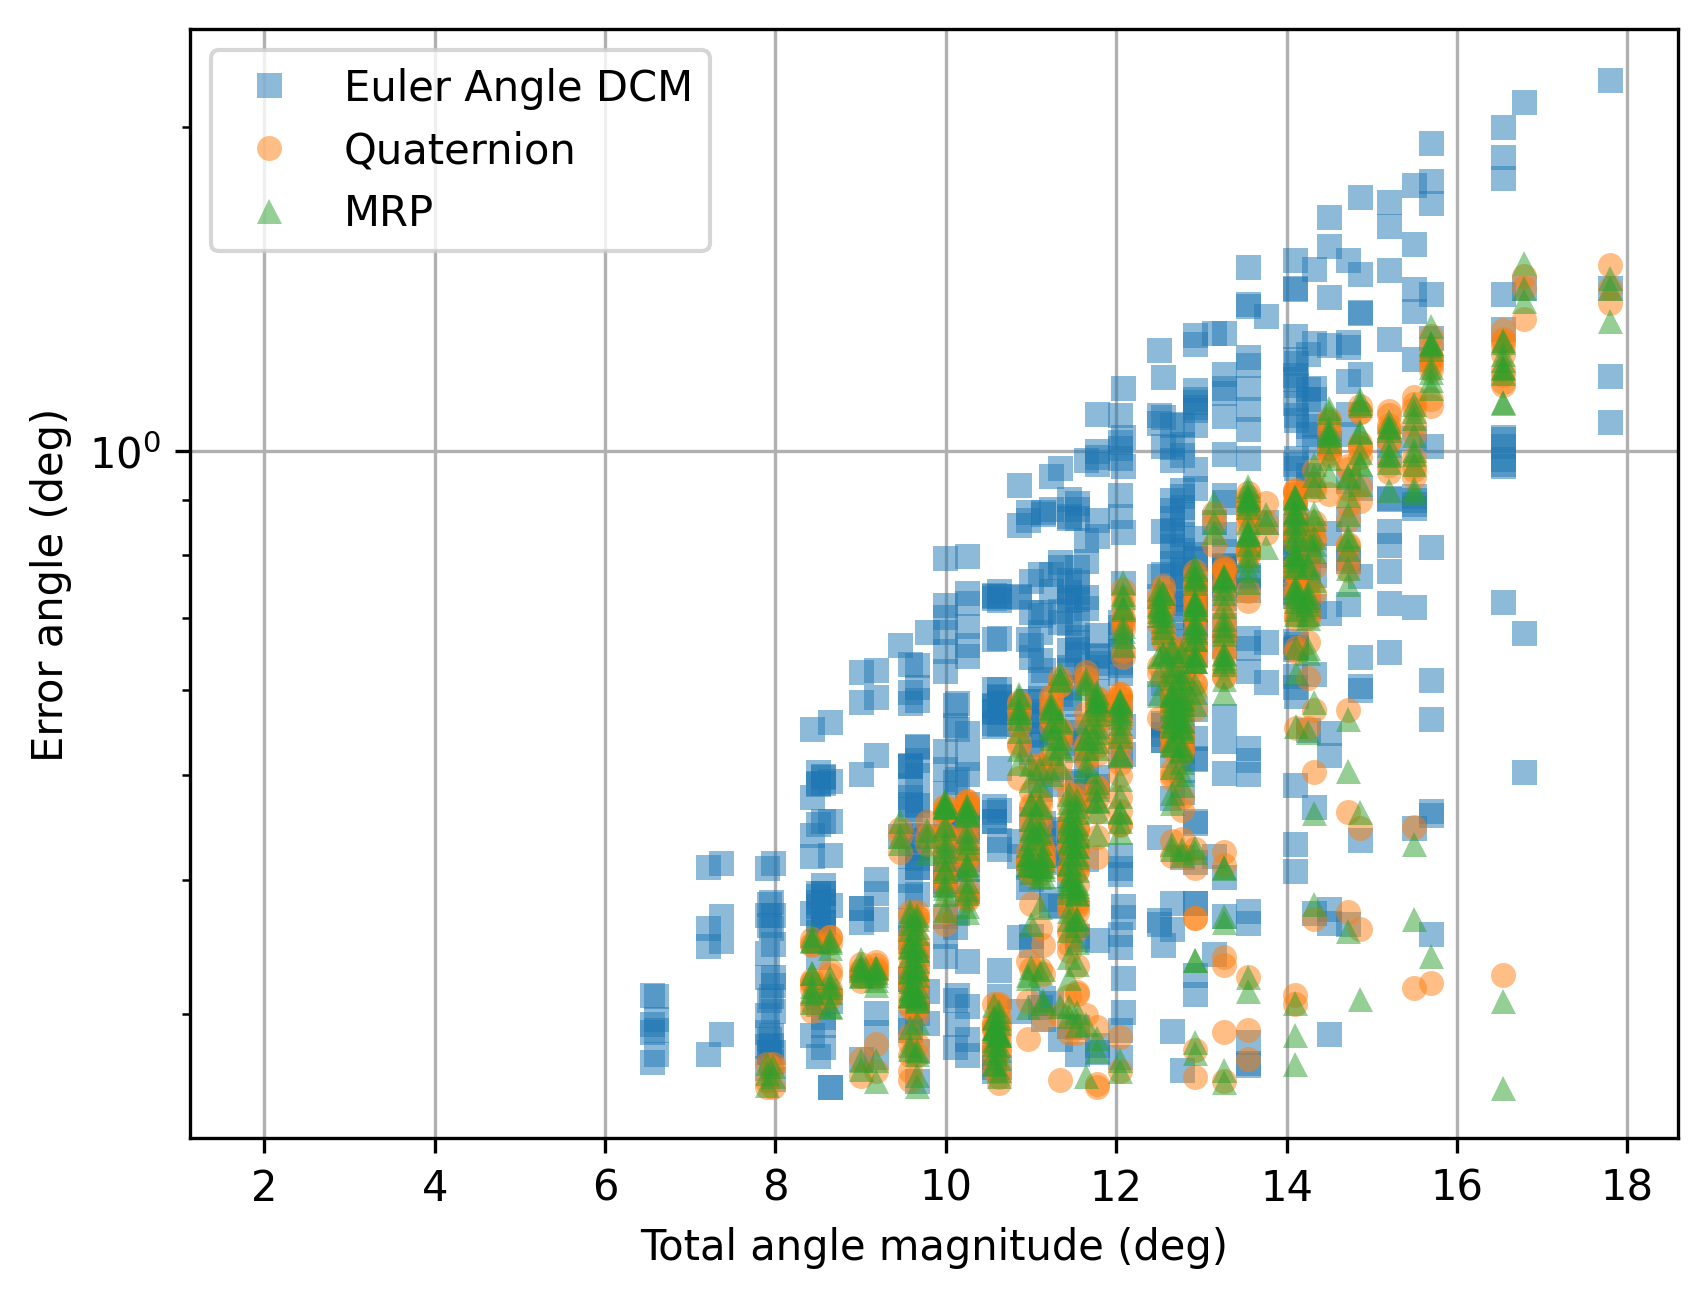
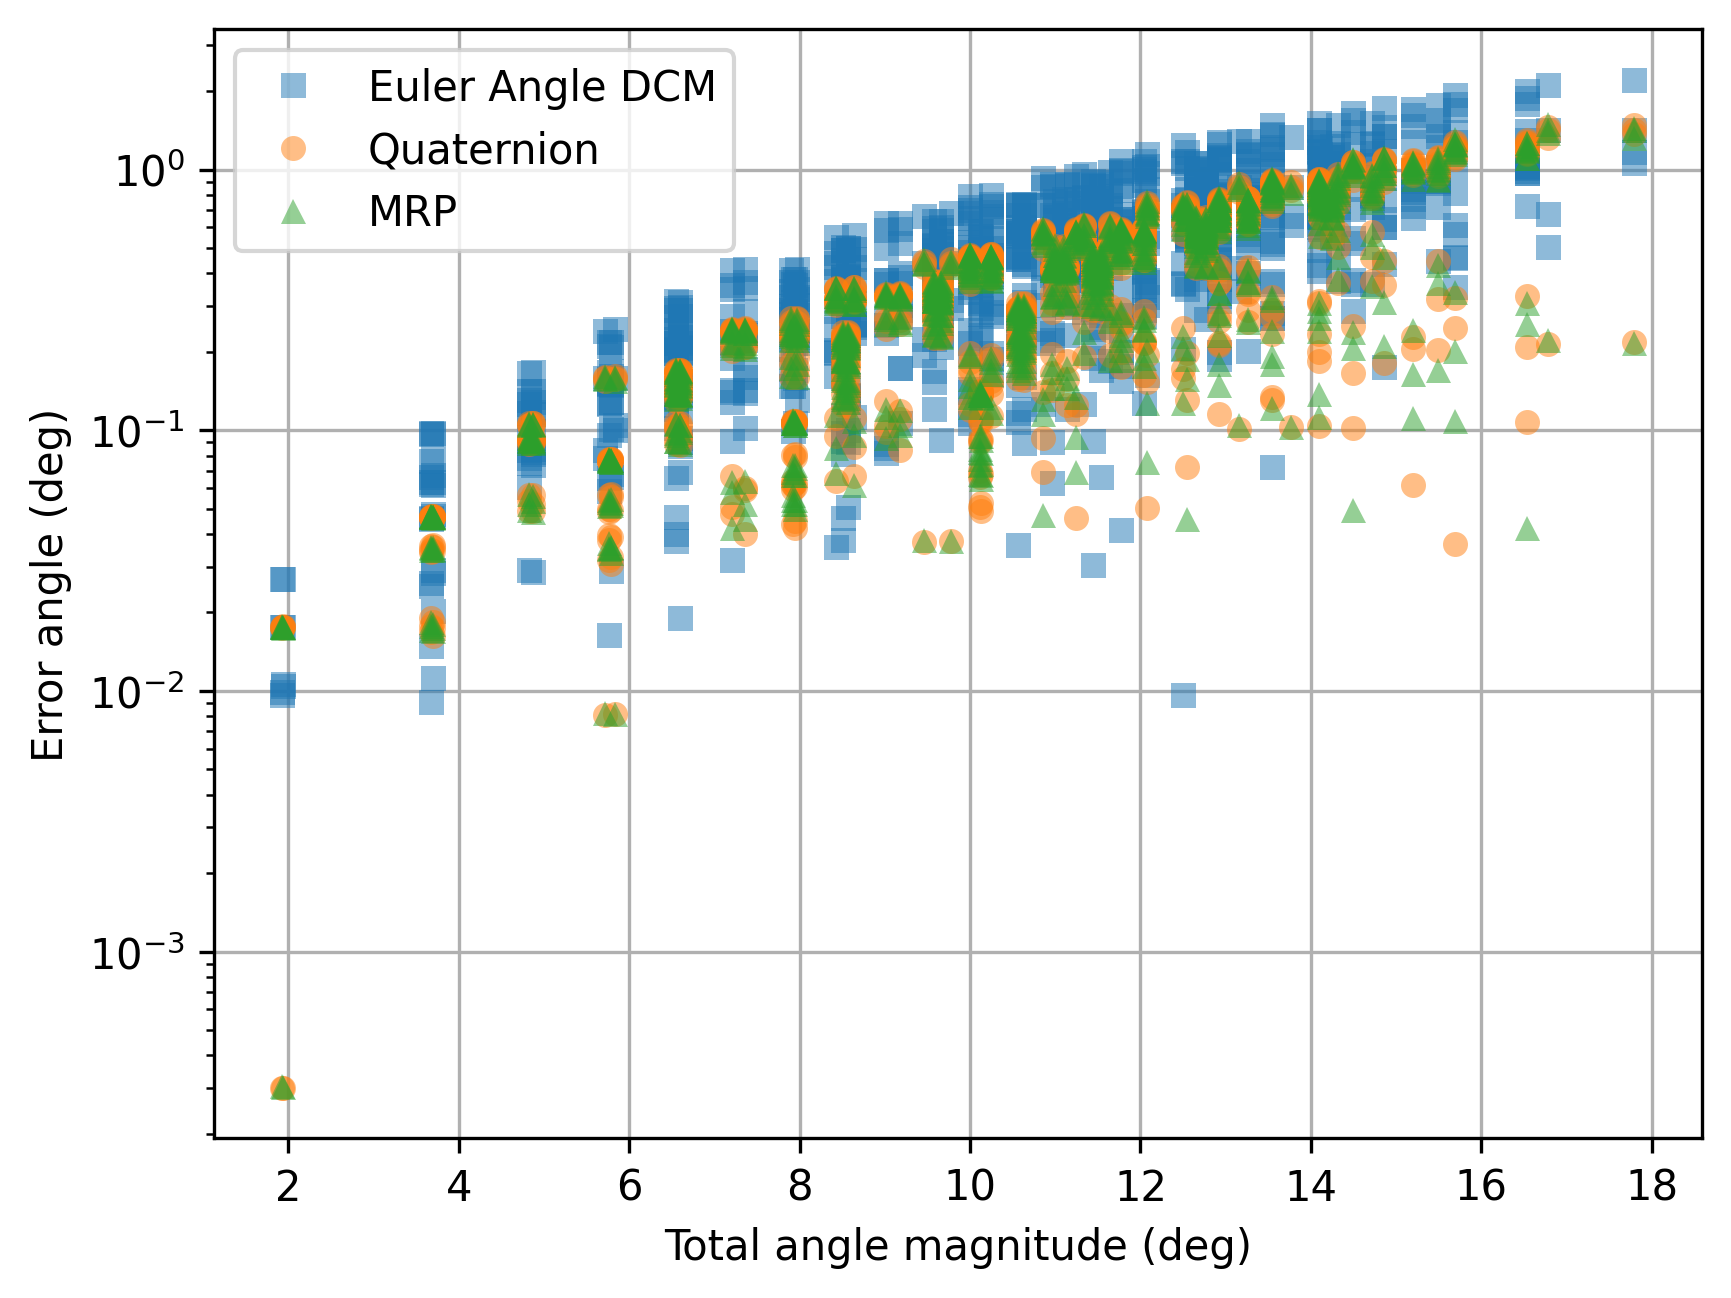
Fixed angle clipping

diff --git a/ps7_small_angles.py b/ps7_small_angles.py
@@ -254,10 +254,12 @@ for i, phi in enumerate(phi_arr):
 
             # Vector error magnitudes and angle magnitudes.
             dcm_vec_mag_error[i, j, k] = np.linalg.norm(test_vector_DCM_diff)
-            if np.isclose(test_vector_DCM_dot, 1.0):
-                dcm_vec_ang_error[i, j, k] = 0
-            else:
-                dcm_vec_ang_error[i, j, k] = np.arccos(test_vector_DCM_dot)
+            # if np.isclose(test_vector_DCM_dot, 1.0):
+            #     dcm_vec_ang_error[i, j, k] = 0
+            # else:
+            #     dcm_vec_ang_error[i, j, k] = np.arccos(test_vector_DCM_dot)
+
+            dcm_vec_ang_error[i, j, k] = np.arccos(test_vector_DCM_dot)
 
             ################
             # QTR
@@ -287,10 +289,11 @@ for i, phi in enumerate(phi_arr):
 
             # Vector error magnitudes and angle magnitudes.
             qtr_vec_mag_error[i, j, k] = np.linalg.norm(test_vector_QTR_diff)
-            if np.isclose(test_vector_QTR_dot, 1.0):
-                qtr_vec_ang_error[i, j, k] = 0
-            else:
-                qtr_vec_ang_error[i, j, k] = np.arccos(test_vector_QTR_dot)
+            # if np.isclose(test_vector_QTR_dot, 1.0):
+            #     qtr_vec_ang_error[i, j, k] = 0
+            # else:
+            #     qtr_vec_ang_error[i, j, k] = np.arccos(test_vector_QTR_dot)
+            qtr_vec_ang_error[i, j, k] = np.arccos(test_vector_QTR_dot)
 
             ################
             # MRP
@@ -312,10 +315,11 @@ for i, phi in enumerate(phi_arr):
 
             # Vector error magnitudes and angle magnitudes.
             mrp_vec_mag_error[i, j, k] = np.linalg.norm(test_vector_MRP_diff)
-            if np.isclose(test_vector_MRP_dot, 1.0):
-                mrp_vec_ang_error[i, j, k] = 0
-            else:
-                mrp_vec_ang_error[i, j, k] = np.arccos(test_vector_MRP_dot)
+            # if np.isclose(test_vector_MRP_dot, 1.0):
+            #     mrp_vec_ang_error[i, j, k] = 0
+            # else:
+            #     mrp_vec_ang_error[i, j, k] = np.arccos(test_vector_MRP_dot)
+            mrp_vec_ang_error[i, j, k] = np.arccos(test_vector_MRP_dot)
 
 # How different are the inferred angle magnitudes from the total angle?
 angle_mag_flat_deg = np.rad2deg(angle_mag.flatten())
